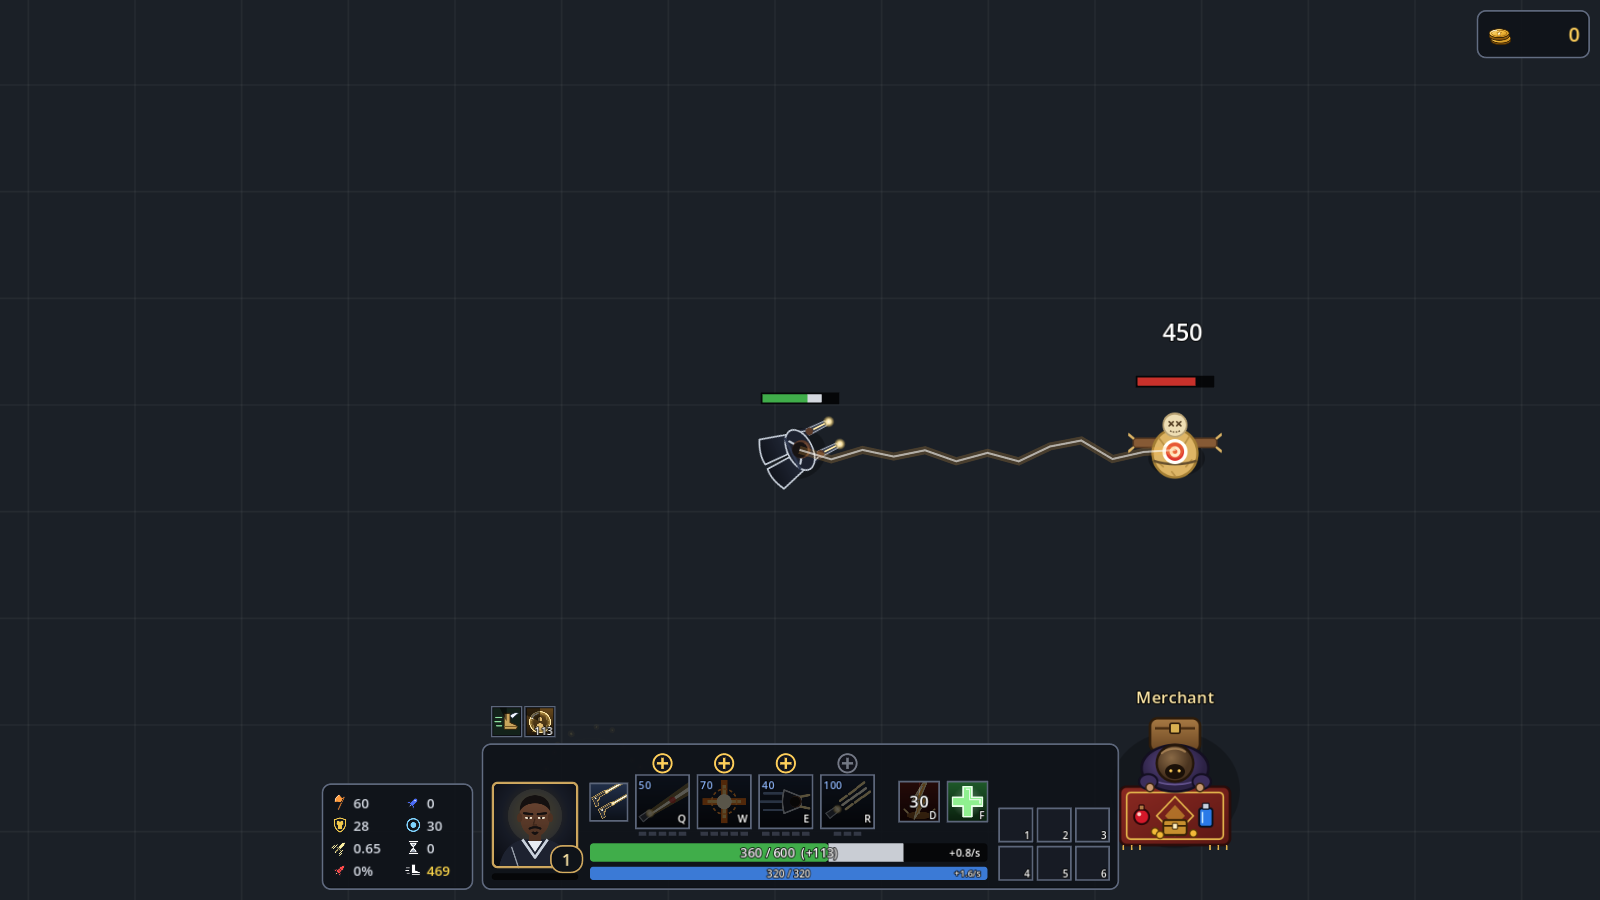
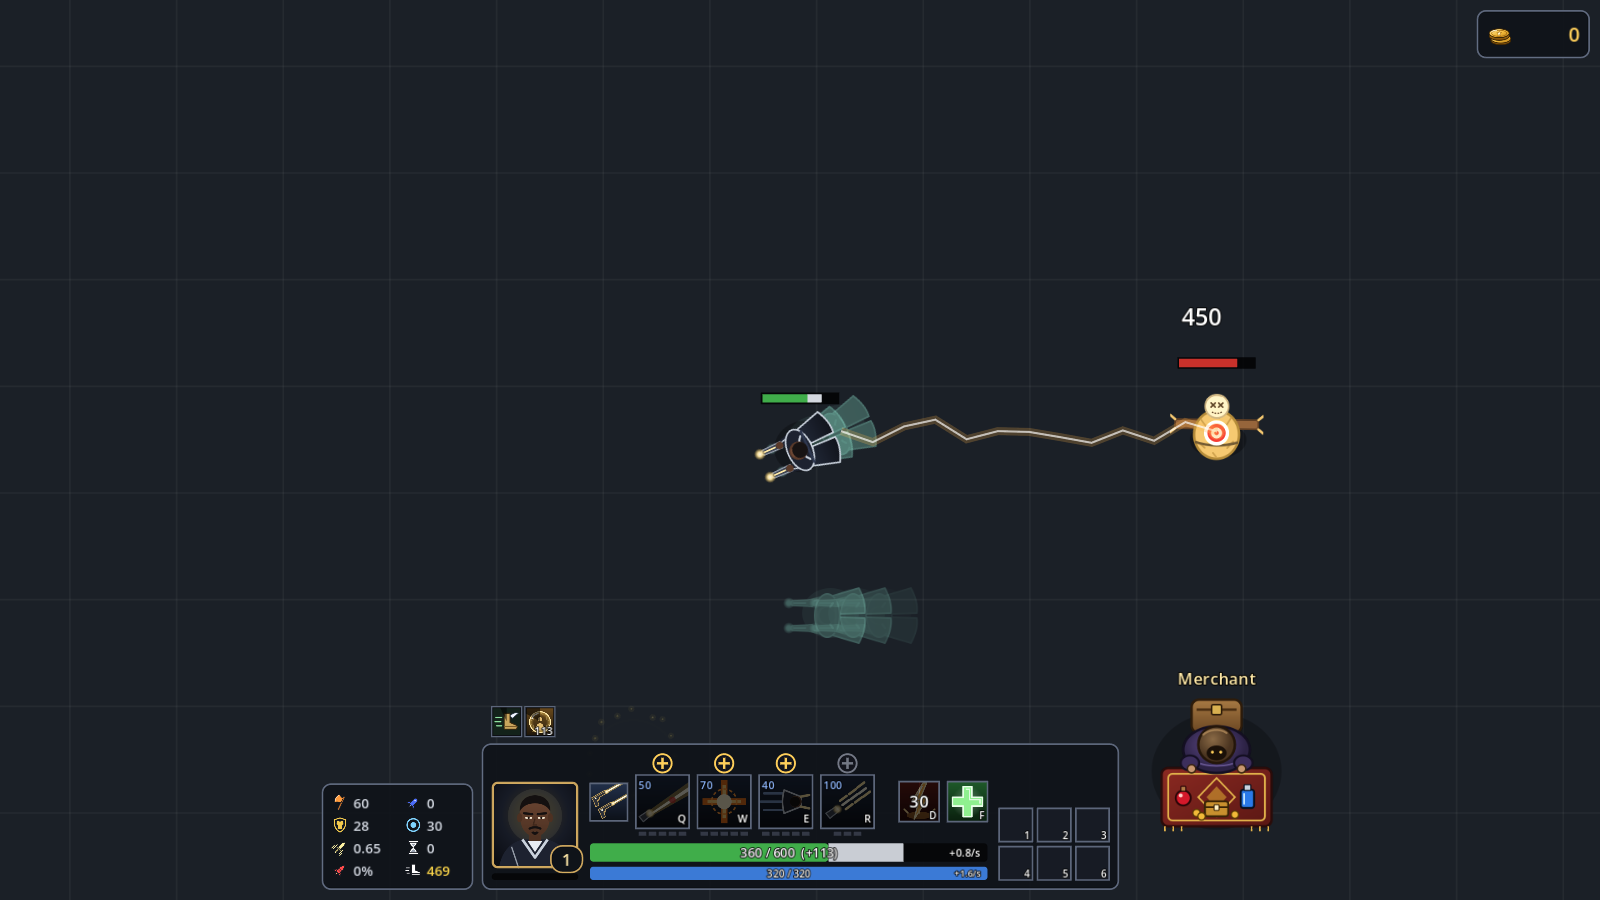
Heal and Clarity effects on Lucian; Ghost leaves pale afterimages behind him as he runs

Changed region(s): [[0.4688, 0.3422, 0.7812, 0.56], [0.6875, 0.7467, 0.8125, 0.9644], [0.5, 0.6533, 0.5625, 0.7156]]

diff --git a/docs/report/phase4.md b/docs/report/phase4.md
@@ -68,6 +68,7 @@ Each spell keeps its own cooldown, also when you move it to the other key. Abili
 | Stats with a bonus in yellow; base + bonus on hover | A number turns yellow when items, passives, buffs or cheats add to what the level alone gives. Its hover card shows "60 base + 22 bonus" with the bonus in yellow. |
 | Redraw the Flash and Barrier icons | Flash: a burst of light where it lands and a ring of yellow sparks where it left. Barrier: a gold figure inside a golden bubble. |
 | Every dash shows a trail; Flash only marks where Lucian was | E (light blue), Galeforce (pale green) and Rocketbelt (violet) leave a trail that grows behind Lucian from the start of the dash and fades once it lands. Flash leaves none: yellow sparks ring the spot Lucian left, drift out and fade in 0.6 s. |
+| Effects for Clarity and Heal; a trail for Ghost | Heal: a green ring spreads out and green crosses rise around Lucian. Clarity: blue motes spiral into him, then a small flash. Both follow him for 0.9 s. Ghost: pale teal afterimages of Lucian trail behind him while he runs, each fading in 0.35 s. I read "a trail before Lucian" as behind him, where he has been. |
 | A move clicked before a dash should be ignored | It was already dropped for a quick click, but with right-click still held, Lucian kept following the cursor after the dash. Now any dash drops the move (and a merchant visit) from before it, even while the button is held. Right-click again, during the dash or after it, to walk on. Attacks still carry on. |
 
 ## Choices I made where the request was open
@@ -111,10 +112,11 @@ Each spell keeps its own cooldown, also when you move it to the other key. Abili
 | ![Stat card](phase4/stats_2_hover.png) Hovering Attack Damage | ![Item card](phase4/stats_3_item_card.png) Item card: icon, amount, name |
 | ![RFC ring](phase4/rfc_ring_0_ready.png) RFC at full charge: the 675 range ring | ![Rocketbelt](phase4/actives_2_rocketbelt.png) Rocketbelt arc, flying ahead of Lucian; mid-dash, its violet trail grows behind him |
 | ![Summoners](phase4/summoners_0_hud_and_picker.png) D/F on the HUD, debug picker | ![Smite](phase4/summoners_3_smite.png) Smite: 450 true damage; Barrier on the HP bar, Ghost and Barrier buffs |
-| ![Summoner card](phase4/summoners_5_card.png) Heal's card; cooldowns on D and F | ![Resolution](phase4/settings_3_graphics.png) Graphics → Resolution |
+| ![Summoner card](phase4/summoners_6_card.png) Heal's card; cooldowns on D and F | ![Resolution](phase4/settings_3_graphics.png) Graphics → Resolution |
 | ![Camera away](phase4/camera_0_away.png) Free camera panned away | ![Camera back](phase4/camera_1_back.png) After Space |
 | ![Galeforce](phase4/actives_1_galeforce.png) Follow-up: Galeforce's missiles curving onto the dummy, its green dash trail; Lucian's HP bar | ![Regen](phase4/stats_1_extra.png) Follow-up: one regen cell, "+0.8/s" on the HP bar |
-| ![Flash](phase4/summoners_1_flash.png) Follow-up: Flash's yellow sparks where Lucian stood, no trail | |
+| ![Flash](phase4/summoners_1_flash.png) Follow-up: Flash's yellow sparks where Lucian stood, no trail | ![Ghost](phase4/summoners_2_barrier_ghost.png) Follow-up: Ghost's afterimages behind Lucian (Barrier on the HP bar) |
+| ![Heal](phase4/summoners_4_heal.png) Follow-up: Heal's ring and rising crosses | ![Clarity](phase4/summoners_5_clarity.png) Follow-up: Clarity's motes spiralling in |
 
 ## Known limits
 

diff --git a/docs/ui_design.md b/docs/ui_design.md
@@ -261,7 +261,7 @@ If the two items are not a valid recipe, no pop-up appears and they swap.
 |---|---|
 | Audio | Master, Music and Sound effects volume (0–100). Releasing a slider plays a test sound. No music yet. |
 | Controls | Every rebindable action with its key or mouse button (including Center camera, Space). Click one, then press a key or mouse button; ESC cancels. A key already used by another action swaps the two. **Reset to defaults.** ESC (menu) and F3 + Q (debug) can't be rebound; Ctrl + a skill key still ranks the skill up, and Ctrl + the stats key toggles the stats panel. |
-| Graphics | Window mode (windowed, borderless fullscreen, fullscreen), Resolution (1280×720, 1366×768, 1600×900, 1920×1080, 2560×1440, 3840×2160; sizes too big for a window on this screen, title bar included, are greyed out and marked "too big"; sets and centers the window, greyed out in borderless/fullscreen), VSync, FPS cap (30/60/120/144/unlimited), Quality (Low: no anti-aliasing, no dash trails, Flash sparks or muzzle flashes; Medium: 2× MSAA; High: 4× MSAA), Show FPS. |
+| Graphics | Window mode (windowed, borderless fullscreen, fullscreen), Resolution (1280×720, 1366×768, 1600×900, 1920×1080, 2560×1440, 3840×2160; sizes too big for a window on this screen, title bar included, are greyed out and marked "too big"; sets and centers the window, greyed out in borderless/fullscreen), VSync, FPS cap (30/60/120/144/unlimited), Quality (Low: no anti-aliasing, no dash trails, muzzle flashes or summoner spell effects (Flash sparks, Ghost afterimages, Heal and Clarity bursts); Medium: 2× MSAA; High: 4× MSAA), Show FPS. |
 | Gameplay | Skill queue (on by default; see the game design doc §2). |
 
 - **Not yet:** cast modes (normal / quick / quick with indicator) and camera options.

diff --git a/docs/implementation/phase4.md b/docs/implementation/phase4.md
@@ -873,6 +873,7 @@ Everything in the plan is in place, one commit per task (Tasks 0–9), then the 
 - **Flash** no longer draws a trail. `BlinkSparks` (`src/combat/blink_sparks.gd`) rings the spot Lucian left with 16 yellow sparks that drift out and up and fade over 0.6 s, with a thin ring popping out.
 - **Icons redrawn:** Flash is a burst of light where it lands, with a ring of yellow sparks where it left; Barrier is a gold figure inside a golden bubble with faint hex lines.
 - **Moves before a dash are dropped.** `start_dash()` already ended a move order, but a held right-click kept re-issuing it whenever the world spot under the cursor changed (aiming the dash, or the follow camera scrolling), so Lucian walked on after landing. Lucian now emits `dash_started`, and `LucianController` drops the held move on it. A merchant visit ends with the dash too. A right-click during the dash is kept and walked after it; attack orders still carry on. Tests: `tests/unit/test_lucian_controller.gd`.
+- **Summoner effects:** `HealBurst` (a green ring spreading to 80 and 7 crosses rising 56, 0.9 s) and `ClarityBurst` (10 blue motes spiralling in from 70, then a small flash, 0.9 s) are children of Lucian, so they move with him. Ghost leaves a `GhostImage` every 28 units Lucian moves: his body texture through `ghost_image.gdshader` (pale teal, a little of his shading kept), fading from 55% over 0.35 s. `Lucian.spawn_under()` puts them in the world just before Lucian, so he draws over them; in the Projectiles layer they covered him. All three are off on low effects.
 
 ### Running the checks
 

diff --git a/docs/lucian_game_design.md b/docs/lucian_game_design.md
@@ -255,10 +255,10 @@ Placeholder numbers. Ability haste doesn't shorten them, and each spell keeps it
 | Spell | Cooldown | Effect |
 |---|---|---|
 | Flash | 90 s | Blink up to 400 toward the cursor. If that spot is inside a wall or an enemy, land just short of it (so Flash can cross them). A blink leaves no trail: yellow sparks ring the spot Lucian left. |
-| Ghost | 60 s | +40% move speed and pass through enemies for 6 s. |
+| Ghost | 60 s | +40% move speed and pass through enemies for 6 s. Pale afterimages trail behind Lucian as he runs. |
 | Barrier | 60 s | Shield of 95 + 18 × level for 2.5 s; heal and shield power makes it stronger. |
-| Heal | 60 s | Heal 80 + 15 × level, +30% move speed fading over 1 s. |
-| Clarity | 45 s | Restore 50% of max mana. |
+| Heal | 60 s | Heal 80 + 15 × level, +30% move speed fading over 1 s. A green ring spreads out and crosses rise around Lucian. |
+| Clarity | 45 s | Restore 50% of max mana. Blue motes spiral into Lucian. |
 | Smite | 30 s | 450 true damage to the enemy nearest the cursor within 500, heal 10% of max HP. |
 
 Until the Evolution Tree exists, both slots are open and every spell is available: D and F are picked in the debug table (default Flash on D, Heal on F).
